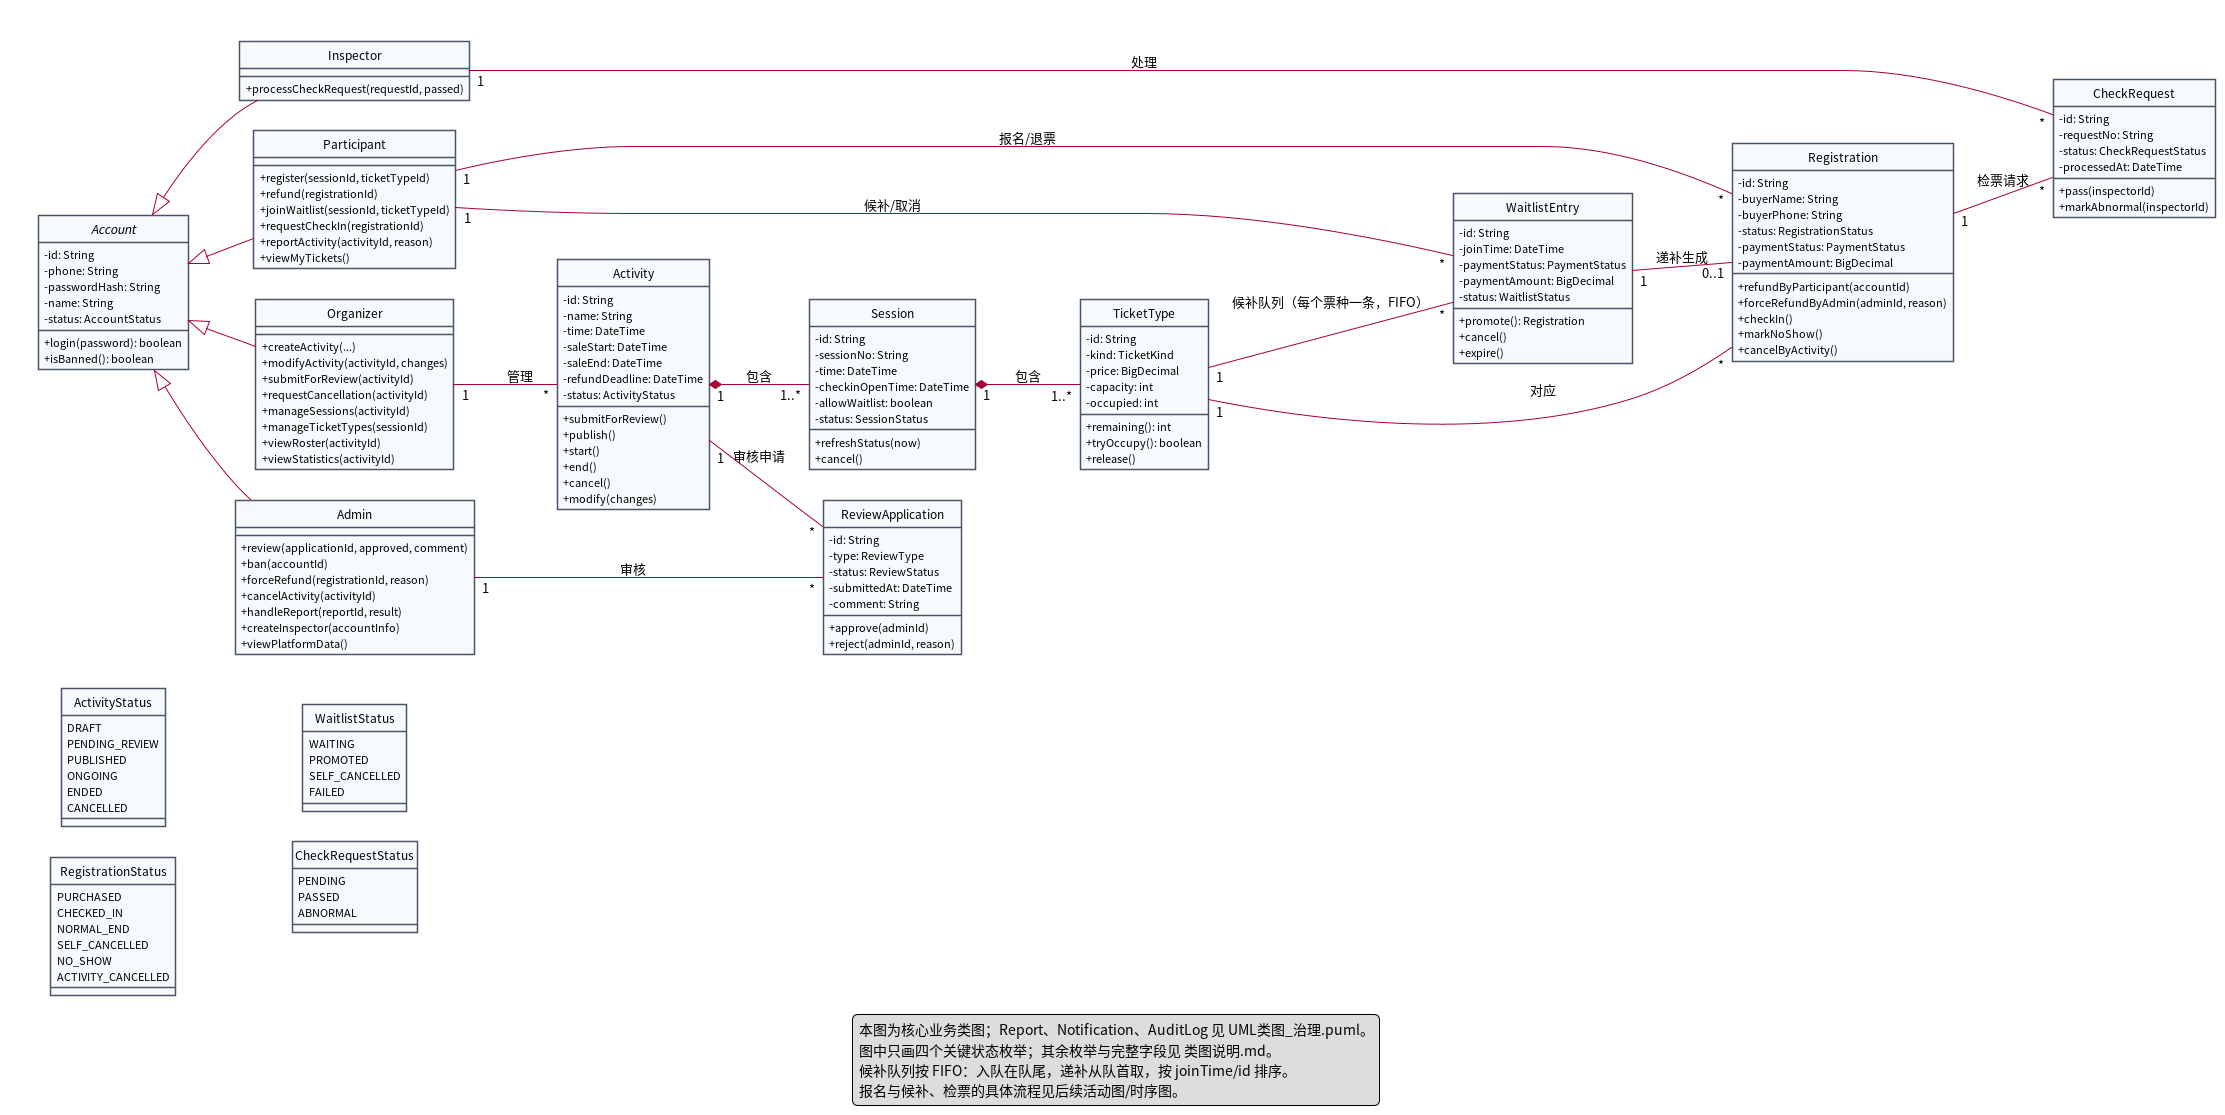
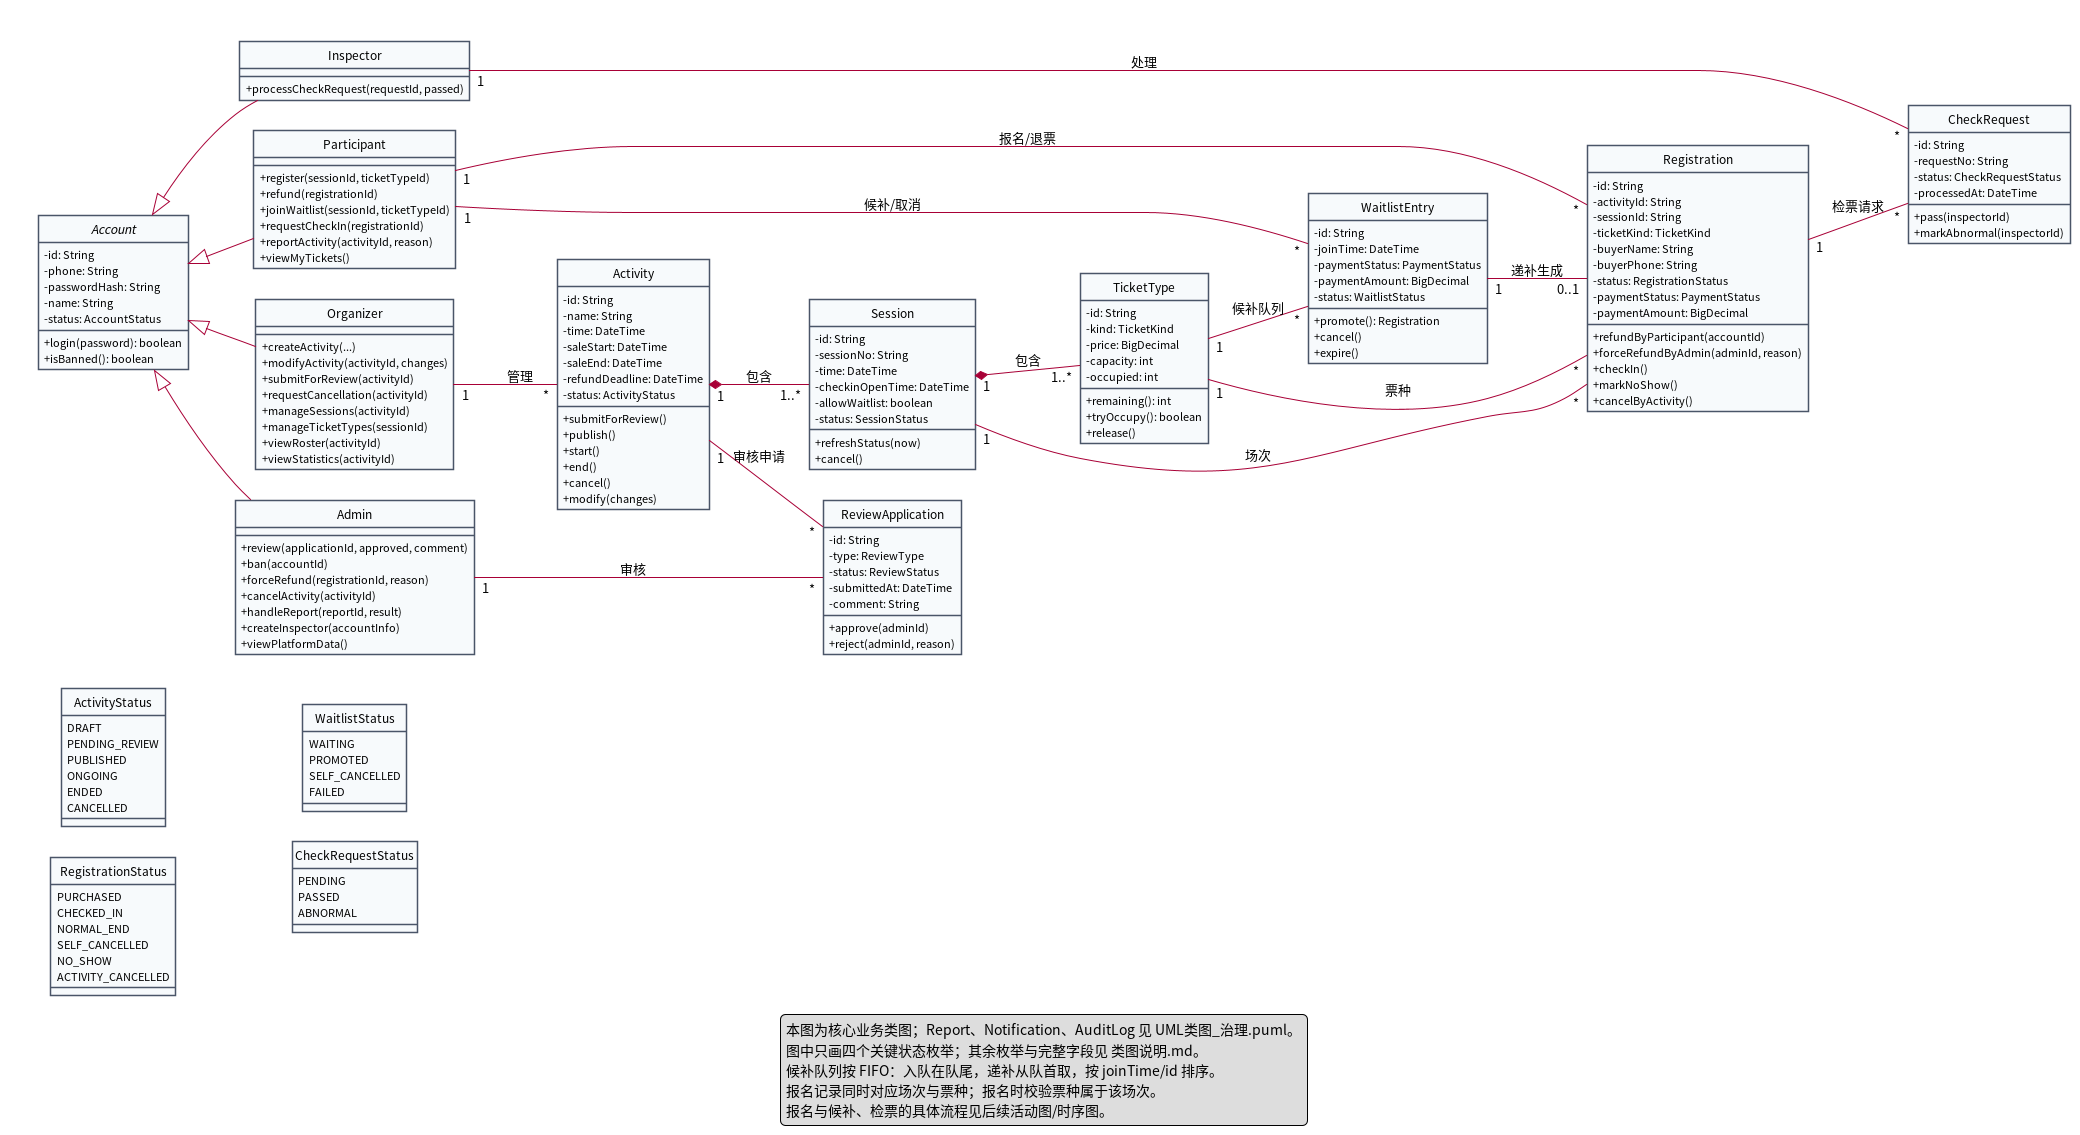
lab2: 简化候补队列标签并补充报名—场次关联
- 类图标签只保留“候补队列”，不再出现“入口”
- Registration 增加 activityId/sessionId/ticketKind
- 增加 Session 1—* Registration 关联
- 说明报名时校验票种属于该场次

diff --git a/lab2/UML/类图说明.md b/lab2/UML/类图说明.md
@@ -27,7 +27,7 @@
 | `Activity` | 活动聚合根 | id、name、time、saleStart、saleEnd、refundDeadline、status | `submitForReview`、`publish`、`start`、`end`、`cancel`、`modify` | REQ-006～REQ-011、REQ-021、REQ-028 |
 | `Session` | 场次 | id、sessionNo、time、checkinOpenTime、allowWaitlist、status | `refreshStatus`、`cancel` | REQ-007、REQ-026 |
 | `TicketType` | 票种与容量 | id、kind、price、capacity、occupied | `remaining`、`tryOccupy`、`release` | REQ-008、REQ-026、REQ-032 |
-| `Registration` | 报名记录 | id、buyerName、buyerPhone、ticketKind、status、paymentStatus、paymentAmount、refundAmount、requestId | `refundByParticipant`、`forceRefundByAdmin`、`checkIn`、`markNoShow`、`cancelByActivity` | REQ-004、REQ-012、REQ-022、REQ-025、REQ-027、REQ-033、REQ-046、REQ-048 |
+| `Registration` | 报名记录 | id、activityId、sessionId、ticketKind、buyerName、buyerPhone、status、paymentStatus、paymentAmount、refundAmount、requestId | `refundByParticipant`、`forceRefundByAdmin`、`checkIn`、`markNoShow`、`cancelByActivity` | REQ-004、REQ-012、REQ-022、REQ-025、REQ-027、REQ-033、REQ-046、REQ-048 |
 | `WaitlistEntry` | 候补记录 | id、joinTime、paymentStatus、paymentAmount、status | `promote`、`cancel`、`expire` | REQ-019、REQ-020、REQ-023、REQ-049 |
 | `CheckRequest` | 检票请求 | id、requestNo、status、processedAt | `pass`、`markAbnormal` | REQ-014～REQ-017、REQ-036 |
 | `ReviewApplication` | 审核申请 | id、type、status、submittedAt、comment | `approve`、`reject` | REQ-009、REQ-010、REQ-011 |
@@ -44,6 +44,7 @@
 | `Activity` ◆— `Session` | 1 : 1..* | 活动包含场次；场次不能脱离活动存在 | REQ-007 |
 | `Session` ◆— `TicketType` | 1 : 1..* | 场次包含票种；票种不能脱离场次存在 | REQ-008、REQ-024 |
 | `Participant` — `Registration` | 1 : * | 一个账号可有多条报名记录（不同场次） | REQ-012、REQ-027 |
+| `Session` — `Registration` | 1 : * | 一条报名记录对应具体场次；报名时校验票种属于该场次 | REQ-024、REQ-025 |
 | `TicketType` — `Registration` | 1 : * | 一个票种对应多条报名记录；报名记录是历史记录，不能删除 | REQ-004、REQ-024、REQ-025 |
 | `Participant` — `WaitlistEntry` | 1 : * | 一个账号可有多条候补记录 | REQ-019、REQ-049 |
 | `TicketType` — `WaitlistEntry` | 1 : *（`{ordered}`） | 每个票种对应一条 FIFO 候补队列（1-1）；队列内可有多条候补记录（1-*）；入队在队尾，递补从队首取，按 `joinTime/id` 排序；队列是逻辑集合，不单独建类/表 | REQ-019 |
@@ -54,6 +55,8 @@
 | `Admin` — `ReviewApplication` | 1 : * | 管理员审核申请；审核人可空（待审核时） | REQ-009 |
 
 > 关联线上的词表示“关系角色/主要操作”，不是完整操作清单；完整操作见第一节的类方法表。
+>
+> 报名记录同时关联 `Session` 和 `TicketType`：`TicketType` 必须属于该 `Session`；`Activity` 通过 `Session` 关联，`Registration` 中的 `activityId/sessionId` 是快照字段，便于查询和统计。
 
 **为什么 Activity–Session–TicketType 用组合**：场次/票种的生命周期依附于活动；活动取消时场次取消（REQ-021）。
 **为什么 Registration 不用组合**：报名记录是历史记录，任何角色都不能删除（REQ-004）；票种/活动变化不能删除它，只能改状态。
@@ -155,7 +158,7 @@
 1. `Account` 的继承是否覆盖四类角色；
 2. 活动—场次—票种是否是组合关系，基数是否正确；
 3. `Registration` 是否与 `TicketType`、`Participant` 正确关联；
-4. 候补记录与报名记录是否是 `1 : 0..1`；票种与候补队列是否是 `1 : 1`，队列与记录是否是 `1 : *`；
+4. 报名记录是否同时关联 `Session` 和 `TicketType`，票种是否属于该场次；候补记录与报名记录是否是 `1 : 0..1`；票种与候补队列是否是 `1 : 1`，队列与记录是否是 `1 : *`；
 5. 检票请求是否属于报名记录，检票员是否只处理请求；
 6. 退款为什么有 `refundByParticipant` / `forceRefundByAdmin` / `cancelByActivity` 三个命令；
 7. `AuditLog` 是否用 `objectType/objectId` 而不是连所有类。

diff --git a/lab2/AI使用记录.md b/lab2/AI使用记录.md
@@ -225,3 +225,24 @@
   - 问题：图上仍用 `TicketType 1—* WaitlistEntry` 表达，1-1 的“队列”靠标签和说明表达；这是按用户“不单独建队列对象”的要求做的取舍。
 - **人工修改优化后的结果**：按用户意见改为“候补队列 + FIFO 语义”，不改变结构，只调整术语和说明。
 - **对应 Git 提交**：`497201d`（候补队列 FIFO 语义）。
+
+---
+
+## 使用记录 12：简化为“候补队列”并补充报名—场次关联
+
+- **时间**：2026-10-31
+- **使用场景**：用户指出图上不应再出现“候补队列入口”，只保留“候补队列”；同时提出报名记录还应该和场次（Session）对应。
+- **输入（用户反馈要点，按原意记录）**：
+  - “你的图里面写的还是候补队列入口啊，我不要这个入口了，只需要保留一个候补队列。”
+  - “报名的对应关系是不是还要和 session 对应呢？”
+- **AI 的处理**：
+  - 类图关联标签简化为“候补队列”，不再带“入口/每个票种一条/FIFO”等字样；FIFO 语义放在图例和说明中；
+  - `Registration` 增加 `activityId`、`sessionId`、`ticketKind` 字段；
+  - 增加 `Session 1 — * Registration : 场次`，保留 `TicketType 1 — * Registration : 票种`；
+  - `类图说明.md` 增加“报名时校验票种属于该场次”的约束，并说明 Activity 通过 Session 关联；
+  - 图例说明报名记录同时对应场次与票种。
+- **优点/问题**：
+  - 优点：标签简洁；报名与场次、票种的关系更完整；避免只连票种导致“这个票属于哪一场”不够直观。
+  - 问题：Registration 同时连 Session 和 TicketType，图上多一条长线；已在说明中写明“TicketType 必须属于该 Session”，并在实现时用该约束保证一致性。
+- **人工修改优化后的结果**：按用户意见简化队列标签并补充 Session 关联；未新增队列类/表。
+- **对应 Git 提交**：待提交（候补队列标签与报名—场次关联）。
